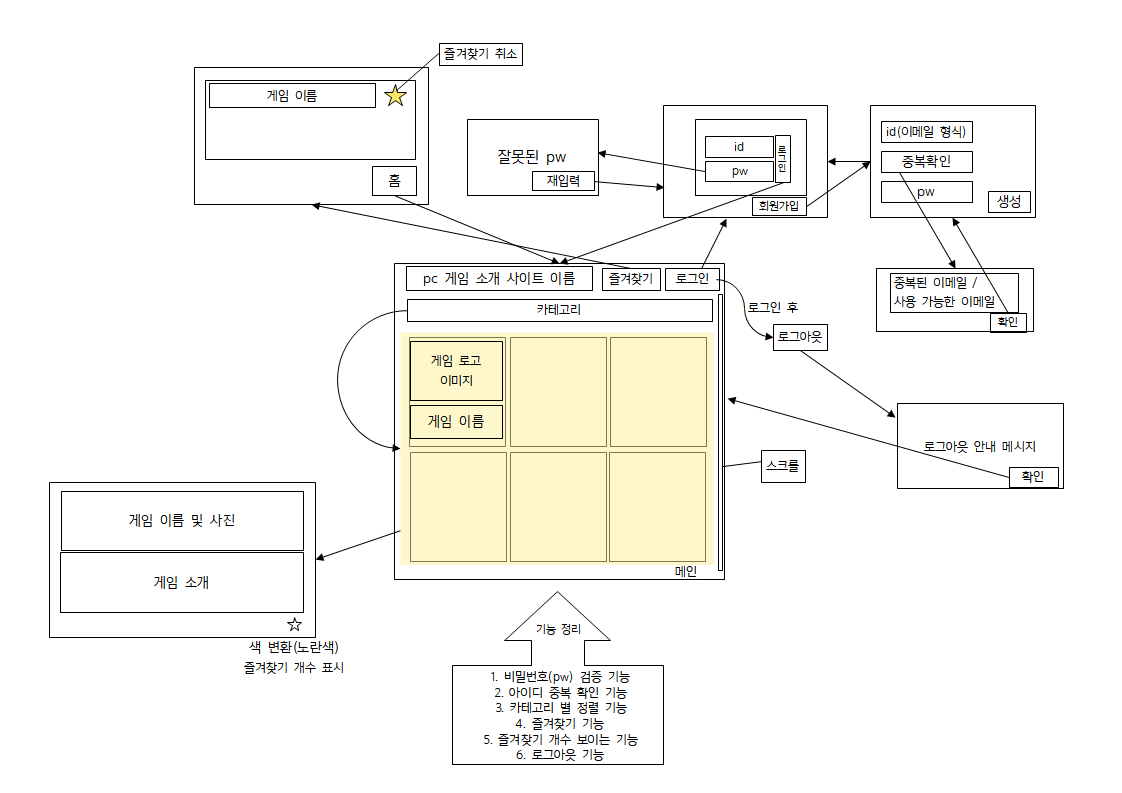
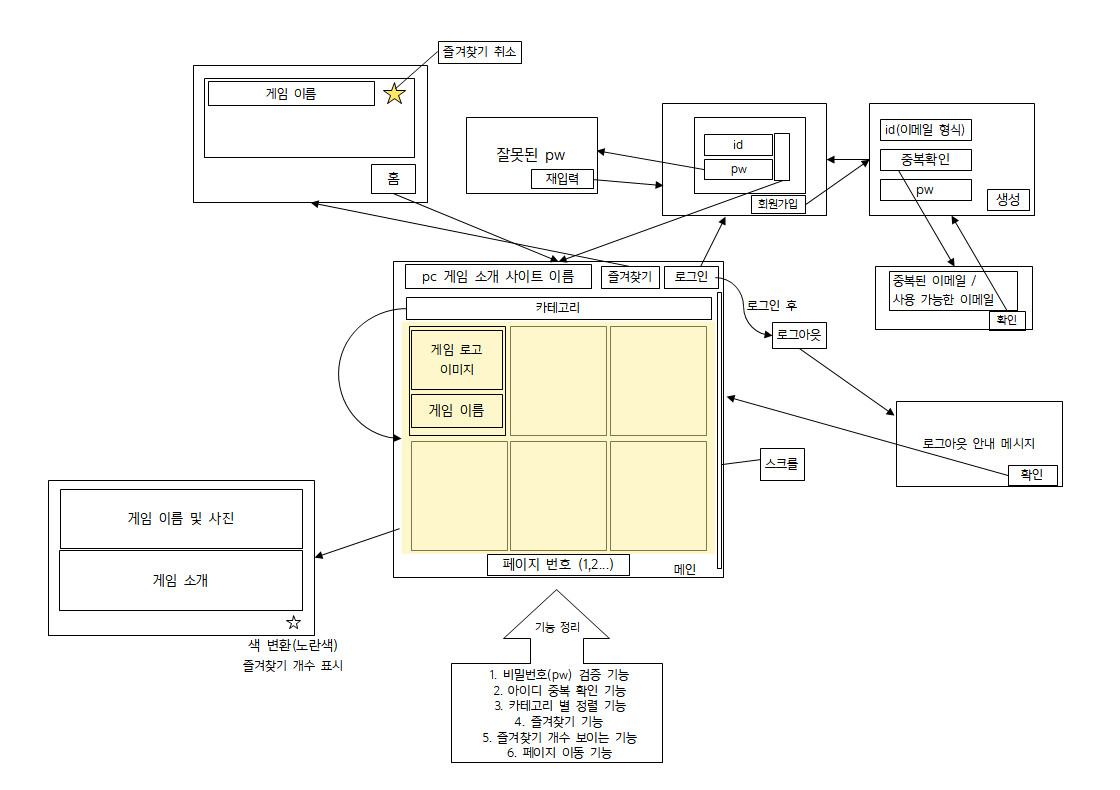
project_1

diff --git a/project/main.html b/project/main.html
@@ -1,0 +1,28 @@
+<!DOCTYPE html>
+<html>
+    <head>
+    <meta charset="utf-8">
+        <title>pc 게임 인포</title>
+    </head>
+    <body>
+        <header>
+            <img class="logo_img" src="white_logo.png" alt="pc게임인포">
+            <button id="bookmark_btn">즐겨찾기</button>
+            <button id="login_btn">로그인</button>
+        </header>
+        <nav class="navbar">
+            <ul class="category">
+                <li class="cat_item" id="act">액션</li>
+                <li class="cat_item" id="shoot">슈팅</li>
+                <li class="cat_item" id="role">롤플레잉</li>
+                <li class="cat_item" id="simul">시뮬레이션</li>
+                <li class="cat_item" id="adventure">어드벤처</li>
+                <li class="cat_item" id="strategy">전략</li>
+                <li class="cat_item" id="etc">기타</li>
+            </ul>
+        </nav>
+        <article>
+            <section></section>
+        </article>
+    </body>
+</html>
